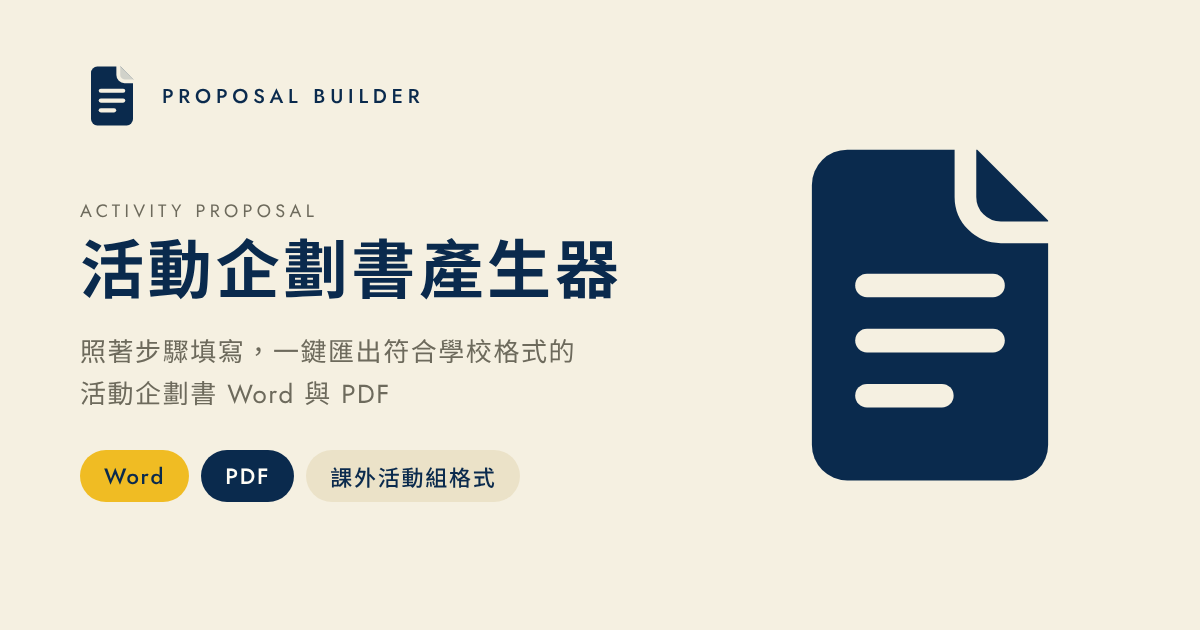
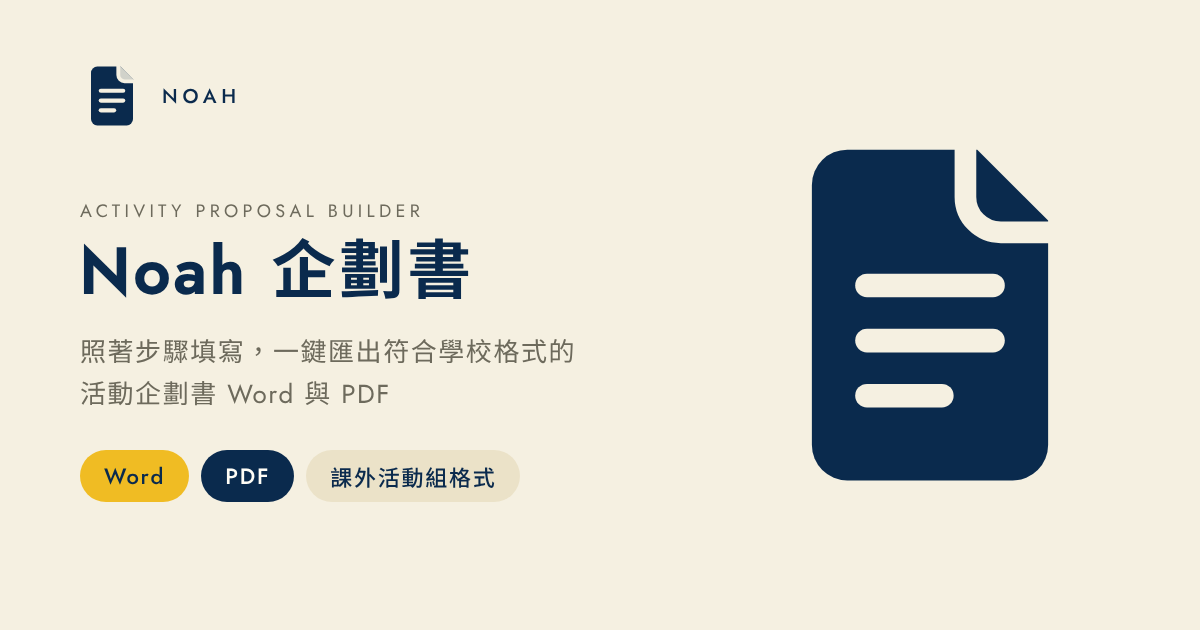
產品命名為 Noah 企劃書
網頁標題、頁首、PWA 名稱、App 名稱、網址預覽圖都改成 Noah 企劃書。

Claude-Session: https://claude.ai/code/session_016i4e4p2haFjCx31cF5SqkS

Changed region(s): [[0.0617, 0.3317, 0.5242, 0.4825], [0.1233, 0.1206, 0.3392, 0.181]]

diff --git a/index.html b/index.html
@@ -3,29 +3,29 @@
 <head>
 <meta charset="utf-8">
 <meta name="viewport" content="width=device-width, initial-scale=1, viewport-fit=cover">
-<title>活動企劃書產生器｜南臺科技大學學生會</title>
+<title>Noah 企劃書｜活動企劃書產生器</title>
 <meta name="description" content="照著步驟填寫，一鍵匯出符合南臺科技大學課外活動組格式的活動企劃書 Word 與 PDF。">
 <!-- 分享預覽（貼連結到 LINE、IG、FB 時顯示）：og:image 必須是絕對網址 -->
 <meta property="og:type" content="website">
 <meta property="og:site_name" content="南臺科技大學學生會">
-<meta property="og:title" content="活動企劃書產生器">
+<meta property="og:title" content="Noah 企劃書">
 <meta property="og:description" content="照著步驟填寫，一鍵匯出符合學校格式的活動企劃書 Word 與 PDF。">
 <meta property="og:url" content="https://stustsa.github.io/proposal/">
-<meta property="og:image" content="https://stustsa.github.io/proposal/og.png?v=3">
+<meta property="og:image" content="https://stustsa.github.io/proposal/og.png?v=4">
 <meta property="og:image:width" content="1200">
 <meta property="og:image:height" content="630">
-<meta property="og:image:alt" content="活動企劃書產生器｜南臺科技大學學生會">
+<meta property="og:image:alt" content="Noah 企劃書｜活動企劃書產生器">
 <meta name="twitter:card" content="summary_large_image">
-<meta name="twitter:title" content="活動企劃書產生器">
+<meta name="twitter:title" content="Noah 企劃書">
 <meta name="twitter:description" content="照著步驟填寫，一鍵匯出符合學校格式的活動企劃書 Word 與 PDF。">
-<meta name="twitter:image" content="https://stustsa.github.io/proposal/og.png?v=3">
+<meta name="twitter:image" content="https://stustsa.github.io/proposal/og.png?v=4">
 <link rel="icon" href="icons/favicon.svg" type="image/svg+xml">
 <link rel="apple-touch-icon" href="icons/apple-touch-icon.png">
 <link rel="manifest" href="manifest.webmanifest">
 <meta name="theme-color" content="#f5f0e1">
 <meta name="apple-mobile-web-app-capable" content="yes">
 <meta name="mobile-web-app-capable" content="yes">
-<meta name="apple-mobile-web-app-title" content="企劃書">
+<meta name="apple-mobile-web-app-title" content="Noah 企劃書">
 <link rel="preconnect" href="https://fonts.googleapis.com">
 <link rel="preconnect" href="https://fonts.gstatic.com" crossorigin>
 <link href="https://fonts.googleapis.com/css2?family=Jost:wght@300;400;500;700&amp;family=Noto+Sans+TC:wght@400;500;700&amp;family=LXGW+WenKai+TC:wght@400;700&amp;display=swap" rel="stylesheet">
@@ -43,7 +43,7 @@
     <div class="top-l">
       <svg class="su-logo" viewBox="23 51 541 180" role="img" aria-label="南臺科技大學學生會 STUSTSA"><path class="cls-1" d="M75,141a51.19,51.19,0,0,1,15-36.23,51.19,51.19,0,0,1,35.62-15.11A51.37,51.37,0,0,0,25.08,104.79V141A51.37,51.37,0,0,0,76.45,192.4a6.27,6.27,0,0,0,.75,0,50.76,50.76,0,0,0,24.19-6.43,52.2,52.2,0,0,0,11.46-8.68,51.2,51.2,0,0,0,15-36.24ZM68.8,90.21a3.57,3.57,0,0,1,0-.56,6.18,6.18,0,1,1,12.36,0v.22a6.18,6.18,0,0,1-12.33.34Z"/><path class="cls-2 emb-b" d="M126.32,89.65a6.78,6.78,0,0,0-.78,0A51.36,51.36,0,0,0,75,141H127.8a51.2,51.2,0,0,1-15,36.24,52.2,52.2,0,0,1-11.46,8.68,50.76,50.76,0,0,1-24.19,6.43,51.39,51.39,0,0,0,100.5-15.11V141A51.39,51.39,0,0,0,126.32,89.65ZM134,126.44a6.18,6.18,0,0,1-6.15,5.62c-.28,0-.53,0-.81-.05a6.15,6.15,0,0,1-4.87-3.71,5.67,5.67,0,0,1-.5-2.19v-.23a6.1,6.1,0,0,1,2.2-4.7,6.62,6.62,0,0,1,1.64-1,5.86,5.86,0,0,1,2.34-.47,6.16,6.16,0,0,1,6.18,6.17A3.44,3.44,0,0,1,134,126.44Z"/><path class="cls-2" d="M204.21,124.34,211,116.1c3.49,3,8.11,5.09,12.06,5.09,4.43,0,6.5-1.67,6.5-4.35,0-2.88-2.74-3.82-7-5.63l-6.37-2.68c-5.22-2.08-10.11-6.43-10.11-13.67,0-8.37,7.5-15.07,18.09-15.07a23.2,23.2,0,0,1,16.21,6.56l-6,7.51c-3.29-2.48-6.37-3.82-10.25-3.82-3.69,0-5.9,1.47-5.9,4.08,0,2.82,3.08,3.89,7.5,5.63l6.24,2.48c6.16,2.48,9.84,6.63,9.84,13.67,0,8.31-7,15.61-19,15.61A27.89,27.89,0,0,1,204.21,124.34Z"/><path class="cls-2" d="M266.65,90.64H253.19v-10h39v10H278.65v39.93h-12Z"/><path class="cls-2" d="M308,107.12V80.66h11.93V108.4c0,9.44,2.81,12.79,8.31,12.79s8.44-3.35,8.44-12.79V80.66h11.52v26.46c0,16.82-6.7,24.39-20,24.39S308,123.94,308,107.12Z"/><path class="cls-2" d="M363.8,124.34l6.84-8.24c3.48,3,8.1,5.09,12.06,5.09,4.42,0,6.5-1.67,6.5-4.35,0-2.88-2.75-3.82-7-5.63l-6.36-2.68c-5.23-2.08-10.12-6.43-10.12-13.67,0-8.37,7.5-15.07,18.09-15.07A23.2,23.2,0,0,1,400,86.35l-6,7.51c-3.28-2.48-6.36-3.82-10.25-3.82-3.68,0-5.9,1.47-5.9,4.08,0,2.82,3.09,3.89,7.51,5.63l6.23,2.48c6.16,2.48,9.85,6.63,9.85,13.67,0,8.31-7,15.61-19,15.61A27.89,27.89,0,0,1,363.8,124.34Z"/><path class="cls-2" d="M426.25,90.64H412.78v-10h39v10H438.24v39.93h-12Z"/><path class="cls-3" d="M462.9,124.34l6.83-8.24c3.48,3,8.11,5.09,12.06,5.09,4.42,0,6.5-1.67,6.5-4.35,0-2.88-2.75-3.82-7-5.63l-6.36-2.68c-5.23-2.08-10.12-6.43-10.12-13.67,0-8.37,7.51-15.07,18.09-15.07a23.22,23.22,0,0,1,16.22,6.56l-6,7.51c-3.28-2.48-6.36-3.82-10.25-3.82-3.68,0-5.89,1.47-5.89,4.08,0,2.82,3.08,3.89,7.5,5.63l6.23,2.48c6.17,2.48,9.85,6.63,9.85,13.67,0,8.31-7,15.61-19,15.61A27.87,27.87,0,0,1,462.9,124.34Z"/><path class="cls-3" d="M526.41,80.66h14.34l15.48,49.91h-12.6l-2.88-11.45H526l-2.88,11.45H510.94Zm1.88,29.21h10.18l-1.07-4.22c-1.34-5-2.61-10.92-3.95-16h-.27c-1.21,5.22-2.55,11-3.82,16Z"/><path class="cls-2" d="M226.13,151.35v3.42h15.46v24.76c0,2.64-.64,3.87-2.51,4.65s-4.51.77-8.16.77a19,19,0,0,0-1.78-4.6c2.24.13,5.06.13,5.79.09s1-.23,1-1V159.74H219.07a24.92,24.92,0,0,1,2.55,4.88l-3.47,1.14H225l-.32-.1a32.83,32.83,0,0,0,2.78-5.88l4.56,1.28c-1,1.69-1.87,3.33-2.73,4.7h3.92V170h-7.71v3h8.71v4.33h-8.71v6.48h-5.11v-6.48H212V173h8.39v-3H213v-4.24h4a29.25,29.25,0,0,0-2.23-4.79l4.15-1.23h-8.66V185H204.7V154.77h15.51v-3.42H203v-5.06h17.24v-3.47h5.92v3.47h17.15v5.06Z"/><path class="cls-2" d="M296.8,144.78v3.33H279.16v1.51h13.95v3.14h-33v-3.14h13.54v-1.51H256.45v-3.33h17.24V142.5h5.47v2.28Zm-17.64,35.7h17.37v3.65H256.77v-3.65h16.92V179h-12.5v-3.19h12.5v-1.32c-7.8.18-9.17.32-10.17.64-.18-.73-.73-2.42-1.09-3.38a10.5,10.5,0,0,0,2.37-.59,26.81,26.81,0,0,0,3.1-1.32h-6.2v-.73H257v-6.84h39.31v6.84h-5.11v-3.47H261.79V167H291v2.87h-3.24a42.32,42.32,0,0,1,5.06,3.51l-3,2.46h2.69V179H279.16Zm12.54-26.4V161H261.79v-6.89Zm-5.34,2.65h-19.6v1.59h19.6Zm-12.58,13.13c-1,.64-2,1.23-3.06,1.73l12.5-.18c-.87-.5-1.74-1-2.47-1.37l.23-.18Zm5.38,6h10.21c-.55-.5-1.28-1.09-2.05-1.68l-8.16.22Z"/><path class="cls-2" d="M323.7,171.59a48.94,48.94,0,0,0-2.73-5v18.51h-5.25V168.67a42.2,42.2,0,0,1-5,9,29.88,29.88,0,0,0-2.5-5.15c2.55-2.92,5.1-7.8,6.75-12.22h-6.16v-5.06h6.88v-5.15c-1.77.27-3.46.54-5.15.73a16.15,16.15,0,0,0-1.46-4.2,72.25,72.25,0,0,0,14.68-3.74l3.06,4.43A40.36,40.36,0,0,1,321,149v6.25h6v5.06h-6v.37c1.32,1.27,5.06,5.56,5.93,6.61Zm22.48,2V185h-5.33V174.51l-13.77,2.37-.87-5.15,14.64-2.51V142.5h5.33v25.81l4.51-.78.87,5.06Zm-11.44-6.34a41.61,41.61,0,0,0-7.25-7l3.46-3.1a39.89,39.89,0,0,1,7.48,6.61Zm1.18-12a34.09,34.09,0,0,0-6.79-6.84l3.56-3.1c2.46,1.87,5.65,4.56,7,6.56Z"/><path class="cls-2" d="M387.63,160.33c3,8.89,8.52,16,17.05,19.51a21.62,21.62,0,0,0-4,5.11c-8.26-3.88-13.55-10.53-17.1-19.33A31.4,31.4,0,0,1,366.52,185a16.16,16.16,0,0,0-4.06-4.61c10.44-4.65,14.77-12.22,16.55-20.06H363.32v-5.61h16.6c.46-4.28.41-8.43.46-12.17h5.92c0,3.74-.09,7.93-.54,12.17h17.91v5.61Z"/><path class="cls-4" d="M457.43,176.74H440V180c0,2.41-.54,3.6-2.41,4.33s-4.38.68-7.8.68a17.61,17.61,0,0,0-1.64-4.56c2.14.09,4.88.09,5.56.05s1-.14,1-.69v-3.1H416.21v-4.28h18.47v-1.32a33.69,33.69,0,0,0,5-2.65H425.06v-3.78h19.83l1.14-.28,3.06,2.78a63.39,63.39,0,0,1-8.71,5.25h17.05Zm-35.24-8.57H417v-9.34h3.42l-.82-13.55a61.85,61.85,0,0,0,9.21-2.55l2.24,3.15a45.51,45.51,0,0,1-6.25,1.73l.09,1.32h5.79v3.38H425.1l.1,1.55h5.6v2.32a29.16,29.16,0,0,0,3.19-1.73c-.86-.55-1.73-1-2.55-1.51L434,150.8c.91.46,1.87,1,2.87,1.55a17.54,17.54,0,0,0,1.78-1.91l3.56,1.05a20.41,20.41,0,0,1-2.42,2.73,21.8,21.8,0,0,1,2.78,2.1l-2.73,2.37a31.81,31.81,0,0,0-2.65-2.24,33.27,33.27,0,0,1-3.69,2.38h14.77l.18-1.6H443v-3.37h5.7l.09-1.55h-5.56v-3.38H449l.09-1.5H443V144h11.4c-.23,4.79-.59,10.58-1,14.82h3.38v9.34h-5.38v-5.42H422.19Zm3.28-9.34h7.38a26.55,26.55,0,0,0-2.05-2.1v.5h-5.42Zm14.13-8.39a23.47,23.47,0,0,0-2.37-1.92,23.07,23.07,0,0,1-3.69,2.28,21.77,21.77,0,0,0-2.83-2.42,20.62,20.62,0,0,0,3.47-1.77c-.87-.5-1.64-1-2.47-1.37l2.42-2.1c.87.41,1.83.91,2.78,1.46a14.49,14.49,0,0,0,1.64-1.82l3.56,1.05a16.59,16.59,0,0,1-2.28,2.5c.91.64,1.73,1.28,2.37,1.83Z"/><path class="cls-4" d="M510.91,178.48v5.33h-41v-5.33h17.6v-9.17H475.17v-5.24h12.35v-8h-9.44a37.22,37.22,0,0,1-4.24,6.62,42.89,42.89,0,0,0-4.87-3.24c3.55-3.83,6.52-10.12,8.07-16.32l5.6,1.23c-.64,2.19-1.36,4.33-2.14,6.43h7v-8.21h5.7v8.21h15.37V156H493.22v8h13.63v5.24H493.22v9.17Z"/><path class="cls-4" d="M543.61,143.87l-.68.82c4.2,3.69,11.67,6.75,18.92,8.25a17.57,17.57,0,0,0-3.42,4.11c-.91-.23-1.87-.55-2.82-.82V168H523.92V156.5c-1,.32-1.92.64-2.83.91a22.81,22.81,0,0,0-2.92-4.15c8.39-2,16.55-5.83,20.66-11.12ZM554,155.63a49.91,49.91,0,0,1-6.2-2.78V154h-16v-.91a53.07,53.07,0,0,1-5.52,2.5Zm-27.49,13.86h26.81v15.42h-5.56v-1.1H531.81V185h-5.34Zm5.15-4.78a17.51,17.51,0,0,0-1.55-4.74l3.51-1h-5.15v5.75Zm.19,8.34v1.82h15.91v-1.82Zm15.91,7.2v-1.82H531.81v1.82ZM537.37,159h-3.56a20.9,20.9,0,0,1,1.83,4.84l-2.92.91h4.65Zm6.56-8.43a44.93,44.93,0,0,1-3.83-3c-1.18,1-2.5,2-3.87,3ZM541.75,159v5.75H546l-2.74-.78a35.27,35.27,0,0,0,1.78-5Zm9,0H546l3.56.87c-.91,1.82-1.78,3.6-2.51,4.88h3.69Z"/></svg>
       <span class="top-sep" aria-hidden="true"></span>
-      <div class="top-name"><span class="en">PROPOSAL BUILDER</span><b>活動企劃書產生器</b></div>
+      <div class="top-name"><span class="en">NOAH</span><b>企劃書</b></div>
     </div>
     <div class="top-r">
       <button type="button" class="round" data-theme-toggle aria-label="切換深淺色"><svg width="22" height="22" style="width:22px;height:22px" viewBox="0 0 24 24" fill="none" stroke="currentColor" stroke-width="1.8" aria-hidden="true"><circle cx="12" cy="12" r="8.5"></circle><path d="M12 3.5a8.5 8.5 0 0 1 0 17z" fill="currentColor" stroke="none"></path></svg></button>

diff --git a/tools/og-src.html b/tools/og-src.html
@@ -18,7 +18,7 @@ p{margin:26px 0 0;font-size:26px;letter-spacing:.06em;color:#6d6a5c;line-height:
 .brand{display:flex;align-items:center;gap:18px;font-size:20px;letter-spacing:.24em;font-weight:500}.brand img{width:64px;height:64px}
 .big{position:absolute;right:90px;top:135px;width:360px;height:360px}
 </style></head><body>
-<div class="l"><div class="brand"><img src="../icons/favicon.svg"><span>PROPOSAL BUILDER</span></div><div class="en">ACTIVITY PROPOSAL</div><h1>活動企劃書產生器</h1>
+<div class="l"><div class="brand"><img src="../icons/favicon.svg"><span>NOAH</span></div><div class="en">ACTIVITY PROPOSAL BUILDER</div><h1>Noah 企劃書</h1>
 <p>照著步驟填寫，一鍵匯出符合學校格式的<br>活動企劃書 Word 與 PDF</p>
 <div class="chips"><span class="chip y">Word</span><span class="chip n">PDF</span><span class="chip">課外活動組格式</span></div></div>
 <img class="big" src="../icons/glyph.svg">

diff --git a/sw.js b/sw.js
@@ -1,5 +1,5 @@
 /* 離線快取：網站檔案先用快取、背景更新（stale-while-revalidate）；Google 字型同樣快取。改版時把 VERSION 加一。 */
-var VERSION = 'proposal-v8';
+var VERSION = 'proposal-v9';
 var CORE = ['./', 'index.html', 'css/app.css', 'js/theme.js', 'js/pwa.js', 'js/settings.js', 'js/motion.js', 'css/themes.css', 'js/vendor/jszip.min.js', 'js/vendor/html2canvas.min.js',
   'js/vendor/jspdf.umd.min.js', 'js/vendor/morphdom.js', 'js/fill-docx.js', 'js/pdf.js', 'js/template-b64.js', 'js/dc-runtime.js', 'js/app.js',
   'manifest.webmanifest', 'assets/cover-seal.png', 'icons/favicon.svg', 'icons/icon-192.png', 'icons/icon-512.png'];

diff --git a/android/app/src/main/java/tw/edu/stust/proposal/MainActivity.java b/android/app/src/main/java/tw/edu/stust/proposal/MainActivity.java
@@ -34,7 +34,7 @@ import java.io.OutputStream;
 import java.util.regex.Pattern;
 
 /**
- * 企劃書產生器的安卓外殼。
+ * Noah 企劃書的安卓外殼。
  * - 網站檔案打包在 APK 的 assets/www，用 WebViewAssetLoader 以 https://appassets.androidplatform.net/ 提供：沒網路也能填寫與匯出。
  * - 匯出的 Word／PDF：網頁呼叫 ProposalApp.saveFile(檔名, 類型, base64)，存到「下載」資料夾（Android 10 以上），舊版手機讓使用者選位置。
  * - 網頁裡的 <input type=file>（匯入 Word、選圖片）交給系統的檔案選擇器。

diff --git a/README.md b/README.md
@@ -1,4 +1,6 @@
-# 活動企劃書產生器
+# Noah 企劃書
+
+活動企劃書產生器
 
 南臺科技大學學生會。照著步驟填寫，一鍵匯出符合學務處課外活動組格式的活動企劃書 Word（直接套用學校原始範本）與 PDF；之前匯出的 Word 可以再匯入繼續改。
 
